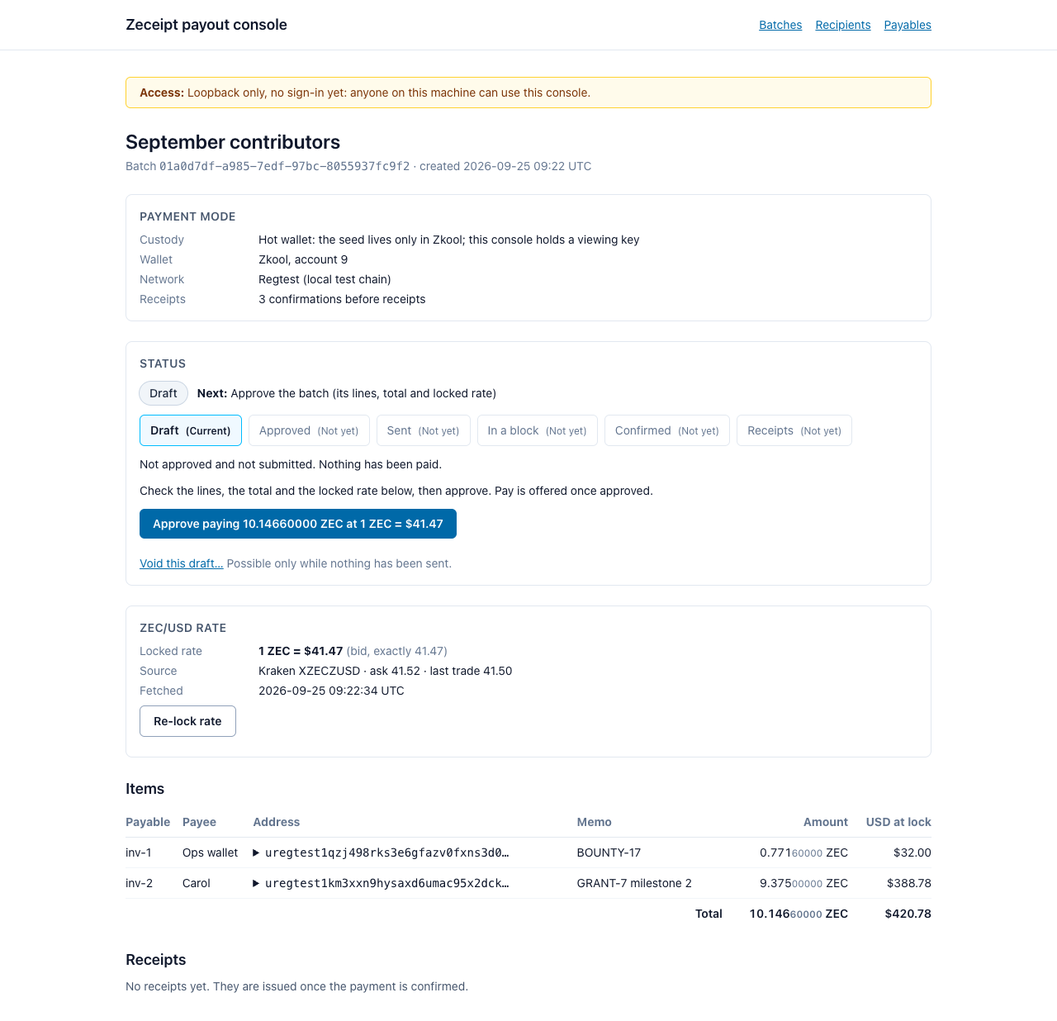
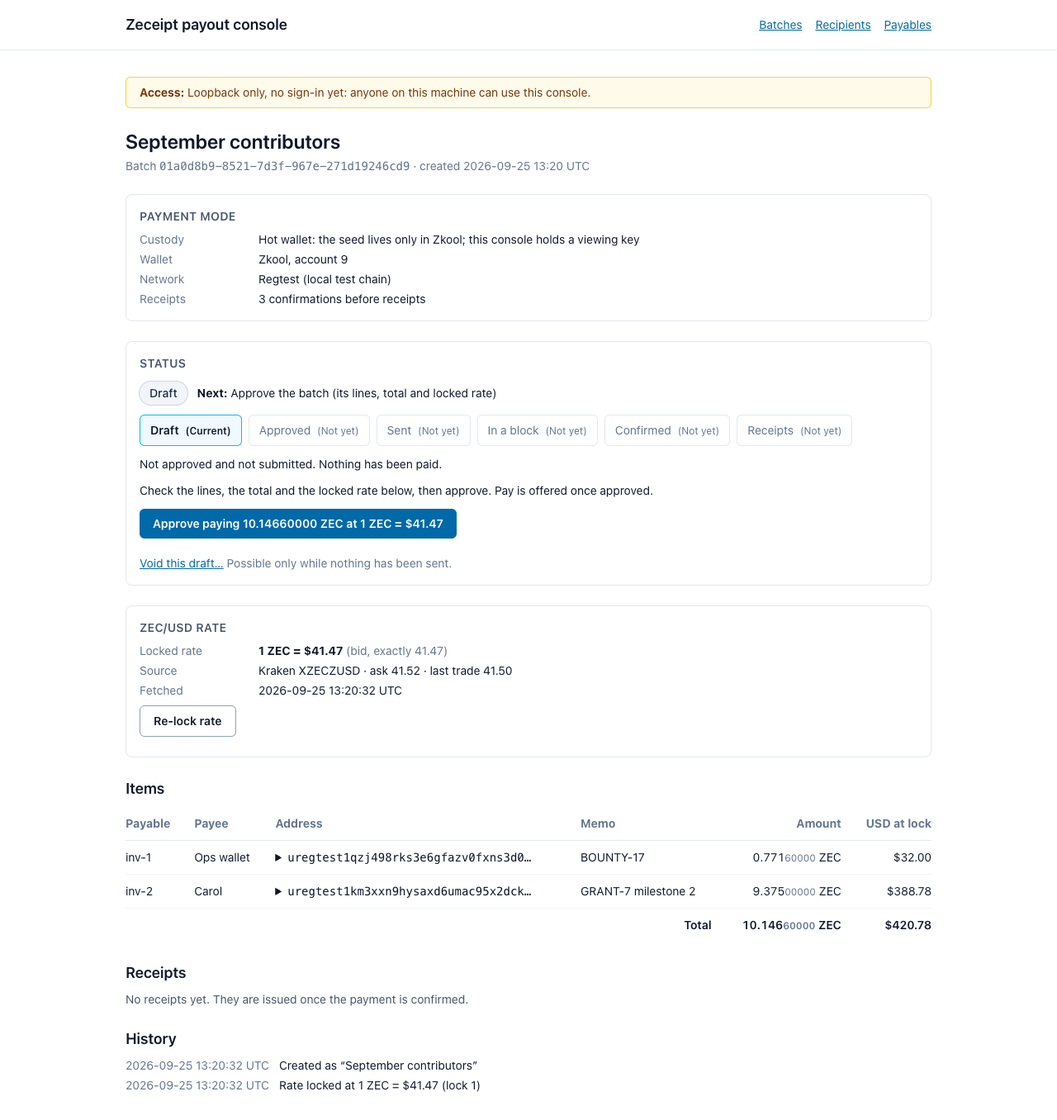
M1: table cells spaced as GOV.UK's table (one TABLE_CLASS for the four data tables, guarded; the form grid marked); found by the first demo footage (R93)

diff --git a/apps/console/app/payables/page.tsx b/apps/console/app/payables/page.tsx
@@ -6,6 +6,7 @@ import { serverContext } from "../../lib/server/context.ts";
 import { centsText, recipientLabel, shortAddress } from "../../lib/view/format.ts";
 import { AccessNotice } from "../components/panels.tsx";
 import { PayableForm } from "./payable-form.tsx";
+import { TABLE_CLASS } from "../../lib/view/table.ts";
 
 export const dynamic = "force-dynamic";
 
@@ -66,33 +67,33 @@ export default async function PayablesPage({ searchParams }: { searchParams: Pro
       {list.length === 0 ? (
         <p className="text-sm">{filter ? `No ${KIND[filter].one.toLowerCase()} payables.` : "No payables yet."}</p>
       ) : (
-        <table className="w-full text-left text-sm">
+        <table className={TABLE_CLASS}>
           <caption className="sr-only">Payables{filter ? `: ${KIND[filter].many}` : ""}</caption>
           <thead className="border-b border-slate-200 text-slate-500">
             <tr>
-              <th className="py-2">Reference</th>
-              <th className="py-2">Recipient</th>
-              <th className="py-2">Kind</th>
-              <th className="py-2 pr-6 text-right">Amount</th>
-              <th className="py-2">Source</th>
-              <th className="py-2">Created (UTC)</th>
-              <th className="py-2">Status</th>
+              <th>Reference</th>
+              <th>Recipient</th>
+              <th>Kind</th>
+              <th className="text-right">Amount</th>
+              <th>Source</th>
+              <th>Created (UTC)</th>
+              <th>Status</th>
             </tr>
           </thead>
           <tbody>
             {list.map((p) => (
               <tr key={p.id} className="border-b border-slate-100 align-top">
-                <td className="py-2">
+                <td>
                   <code>{p.reference}</code>
                 </td>
-                <td className="py-2">
+                <td>
                   {byId.get(p.recipientId)?.displayName}
                   {/* Names need not be unique: the address prefix tells two "Alice"s apart (review H4). */}
                   <div className="font-mono text-xs text-slate-500">{shortAddress(byId.get(p.recipientId)?.address ?? "")}</div>
                 </td>
-                <td className="py-2">{KIND[p.kind].one}</td>
-                <td className="py-2 pr-6 text-right tabular-nums">{centsText(p.usdCents)}</td>
-                <td className="py-2">
+                <td>{KIND[p.kind].one}</td>
+                <td className="text-right tabular-nums">{centsText(p.usdCents)}</td>
+                <td>
                   {p.sourceUrl ? (
                     <a href={p.sourceUrl} rel="noopener noreferrer" className="text-sky-700 underline">
                       {hostOf(p.sourceUrl)}
@@ -101,8 +102,8 @@ export default async function PayablesPage({ searchParams }: { searchParams: Pro
                     "—"
                   )}
                 </td>
-                <td className="py-2 tabular-nums">{p.createdAt.slice(0, 10)}</td>
-                <td className="py-2">
+                <td className="tabular-nums">{p.createdAt.slice(0, 10)}</td>
+                <td>
                   {/* Derived from the batch lines (H3.1.6, H5b.1.6); whether that batch paid is on its own page. */}
                   {holders.has(p.id) ? (
                     <Link href={`/batches/${holders.get(p.id)!.batchId}`} className="text-sky-700 underline">

diff --git a/apps/console/app/recipients/page.tsx b/apps/console/app/recipients/page.tsx
@@ -7,6 +7,7 @@ import { Address } from "../components/address.tsx";
 import { LinkabilityNote } from "../components/linkability.tsx";
 import { AccessNotice } from "../components/panels.tsx";
 import { RecipientForm } from "./recipient-form.tsx";
+import { TABLE_CLASS } from "../../lib/view/table.ts";
 
 export const dynamic = "force-dynamic";
 
@@ -33,11 +34,11 @@ export default async function RecipientsPage() {
       {list.length === 0 ? (
         <p className="text-sm">No recipients yet.</p>
       ) : (
-        <table className="w-full text-left text-sm">
+        <table className={TABLE_CLASS}>
           <caption className="sr-only">Recipients</caption>
           <thead className="border-b border-slate-200 text-slate-500">
             <tr>
-              <th className="py-2">Name</th>
+              <th>Name</th>
               <th>Address</th>
               <th>KYC</th>
               <th>Tax</th>
@@ -47,7 +48,7 @@ export default async function RecipientsPage() {
           <tbody>
             {list.map((r) => (
               <tr key={r.id} className="border-b border-slate-100 align-top">
-                <td className="py-2">
+                <td>
                   {r.displayName}
                   {r.duplicateOf.length > 0 && (
                     <p className="text-xs text-amber-800">Pays the same Orchard receiver as {r.duplicateOf.map((id) => names.get(id)).join(", ")}</p>
@@ -61,12 +62,12 @@ export default async function RecipientsPage() {
                     </p>
                   )}
                 </td>
-                <td className="py-2">
+                <td>
                   <Address value={r.address} />
                 </td>
-                <td className="py-2">{KYC[r.kycStatus]}</td>
-                <td className="py-2">{TAX[r.taxFlag]}</td>
-                <td className="py-2">{SETTLE[r.settlementPref]}</td>
+                <td>{KYC[r.kycStatus]}</td>
+                <td>{TAX[r.taxFlag]}</td>
+                <td>{SETTLE[r.settlementPref]}</td>
               </tr>
             ))}
           </tbody>

diff --git a/apps/console/app/batches/[id]/page.tsx b/apps/console/app/batches/[id]/page.tsx
@@ -20,6 +20,7 @@ import { ZecAmount } from "../../components/amount.tsx";
 import { AccessNotice, ModePanel } from "../../components/panels.tsx";
 import { Lifecycle, StatusBadge } from "../../components/status.tsx";
 import { ApproveForm, IssueForm, LockRateForm, PayForm } from "./action-forms.tsx";
+import { TABLE_CLASS } from "../../../lib/view/table.ts";
 
 export const dynamic = "force-dynamic";
 
@@ -226,11 +227,11 @@ export default async function BatchPage({ params }: { params: Promise<{ id: stri
         <h2 id="items-heading" className="text-lg font-semibold">
           Items
         </h2>
-        <table className="w-full text-left text-sm">
+        <table className={TABLE_CLASS}>
           <caption className="sr-only">Items of this batch</caption>
           <thead className="border-b border-slate-200 text-slate-500">
             <tr>
-              <th className="py-2">Payable</th>
+              <th>Payable</th>
               <th>Payee</th>
               <th>Address</th>
               <th>Memo</th>
@@ -241,7 +242,7 @@ export default async function BatchPage({ params }: { params: Promise<{ id: stri
           <tbody>
             {rec.items.map((i) => (
               <tr key={i.idx} className="border-b border-slate-100">
-                <td className="py-2">{i.payableId}</td>
+                <td>{i.payableId}</td>
                 <td>{i.label || "—"}</td>
                 <td>
                   <Address value={i.address} />
@@ -256,7 +257,7 @@ export default async function BatchPage({ params }: { params: Promise<{ id: stri
           </tbody>
           <tfoot>
             <tr>
-              <td colSpan={4} className="py-2 text-right font-semibold">
+              <td colSpan={4} className="text-right font-semibold">
                 Total
               </td>
               <td className="text-right font-semibold">

diff --git a/apps/console/test/table.test.ts b/apps/console/test/table.test.ts
@@ -1,0 +1,39 @@
+// Table spacing (slice M1): GOV.UK Frontend's table rule (R93), in one class that every table in the app uses.
+
+import { test } from "node:test";
+import assert from "node:assert/strict";
+import { readdirSync, readFileSync, statSync } from "node:fs";
+import { join } from "node:path";
+import { TABLE_CLASS } from "../lib/view/table.ts";
+
+test("TABLE_CLASS carries GOV.UK's cell padding: 10 px vertical, 20 px right, none after the last column", () => {
+  const classes = TABLE_CLASS.split(" ");
+  for (const c of ["w-full", "text-left", "[&_th]:py-2.5", "[&_td]:py-2.5", "[&_th]:pr-5", "[&_td]:pr-5", "[&_th:last-child]:pr-0", "[&_td:last-child]:pr-0"]) {
+    assert.ok(classes.includes(c), c);
+  }
+});
+
+test("every data table in the app uses TABLE_CLASS; a form grid (inputs in cells, own padding) is marked data-form-grid", () => {
+  const files: string[] = [];
+  const walk = (dir: string) => {
+    for (const f of readdirSync(dir)) {
+      const p = join(dir, f);
+      if (statSync(p).isDirectory()) walk(p);
+      else if (p.endsWith(".tsx")) files.push(p);
+    }
+  };
+  walk(join(import.meta.dirname, "../app"));
+  let data = 0;
+  let grids = 0;
+  for (const f of files) {
+    for (const m of readFileSync(f, "utf8").matchAll(/<table\b[^>]*>/g)) {
+      if (m[0].includes("data-form-grid")) grids++;
+      else {
+        data++;
+        assert.ok(m[0].includes("className={TABLE_CLASS}"), `${f}: ${m[0]}`);
+      }
+    }
+  }
+  assert.equal(data, 4, "the batch list, the batch items, recipients, payables");
+  assert.equal(grids, 1, "the new-batch form's line grid");
+});

diff --git a/apps/console/app/page.tsx b/apps/console/app/page.tsx
@@ -4,6 +4,7 @@ import { serverContext } from "../lib/server/context.ts";
 import { paymentMode } from "../lib/view/mode.ts";
 import { ZecAmount } from "./components/amount.tsx";
 import { AccessNotice, ModePanel } from "./components/panels.tsx";
+import { TABLE_CLASS } from "../lib/view/table.ts";
 
 // Read per request through the library (Next's data-access-layer guidance; never fetch our own API).
 export const dynamic = "force-dynamic";
@@ -29,11 +30,11 @@ export default async function Home() {
       {batches.length === 0 ? (
         <p className="text-slate-600">No batches yet. Create one with New batch.</p>
       ) : (
-        <table className="w-full text-left text-sm">
+        <table className={TABLE_CLASS}>
           <caption className="sr-only">Batches, newest first</caption>
           <thead className="border-b border-slate-200 text-slate-500">
             <tr>
-              <th className="py-2">Title</th>
+              <th>Title</th>
               <th>Created</th>
               <th className="text-right">Items</th>
               <th className="text-right">Total</th>
@@ -42,7 +43,7 @@ export default async function Home() {
           <tbody>
             {batches.map((b) => (
               <tr key={b.id} className="border-b border-slate-100">
-                <td className="py-2">
+                <td>
                   <Link href={`/batches/${b.id}`} className="text-sky-700 underline">
                     {b.title}
                   </Link>

diff --git a/apps/console/lib/view/table.ts b/apps/console/lib/view/table.ts
@@ -1,0 +1,5 @@
+// The console's tables (slice M1): GOV.UK Frontend's table spacing (components/table/_mixin.scss; R93). Every header
+// and cell has 10 px vertical and 20 px right padding, and the last column none on the right, so columns never run
+// together and right-aligned amounts meet the table's edge. One class for every table, so the rule cannot drift.
+export const TABLE_CLASS =
+  "w-full text-left text-sm [&_th]:py-2.5 [&_td]:py-2.5 [&_th]:pr-5 [&_td]:pr-5 [&_th:last-child]:pr-0 [&_td:last-child]:pr-0";

diff --git a/apps/console/app/batches/new/draft-form.tsx b/apps/console/app/batches/new/draft-form.tsx
@@ -18,7 +18,7 @@ function Lines({ initial, errors, addressHint }: { initial: DraftLine[]; errors:
   const [lines, setLines] = useState<EditableLine[]>(() => editableLines(initial, errors));
   return (
     <>
-      <table className="w-full text-left text-sm">
+      <table className="w-full text-left text-sm" data-form-grid>
         <caption className="sr-only">Payment lines</caption>
         <thead className="text-slate-500">
           <tr>

diff --git a/docs/product/00_wbs.md b/docs/product/00_wbs.md
@@ -201,7 +201,7 @@ Numbering is `phase.workstream.task.subtask`. Every leaf is a level-4 item.
 #### 3.3.5 Payout console — payables, batches, execution
 - 3.3.5.1 ✅ R — Payables model + manual entry with validation report and linkability warning (REQ-CON-3, REQ-CON-6). 0.25 pd, 2026-09-23 → 09-24. Done so far (slice E2b, Trellis `09-23-console-draft-form`): manual entry of a batch's lines at `/batches/new` (a line table that works without JavaScript; amounts in ZEC converted exactly; every validation problem next to its line; values kept after an error) through the same handler as `POST /api/batches` `[R64]`; lines keyed by stable ids with controlled inputs, covered by a browser e2e in Chrome `[R65]`. Payables (slice H3, Trellis `09-23-payables-store`): the `payables` table (migration 0016) and `POST/GET /api/payables`, `GET /api/payables/{id}`: whole US cents, a reference unique per org (the memo), an http(s) source link, the recipient the org's `[R78]`. The page `/payables` (slice H4, Trellis `09-23-payables-page`): the list with a kind filter and the add form, amounts in US dollars converted to cents exactly, errors under their fields `[R79]`. The linkability warning (slice H6, Trellis `09-25-linkability-warning`): on the recipients page, the chooser and the batch page before paying, and `linkability`/`disclosedBy` in the API; spec §9's wording, tested against the spec `[R84]`.
 - 3.3.5.7 ⬜ R — CSV import (Konclave `label,address,value[,memo]`, zecpay columns) into payables (REQ-CON-19). 0.25 pd, 2026-09-23 → 09-24.
-- 3.3.5.2 ✅ T — Batches with single-source rate lock and state machine (REQ-CON-4, REQ-CON-10, NFR-8: stores the FMV source/rate/timestamp). Includes the console's Tailwind setup with this first styled page (slice E; moved from 3.3.1.1). Done so far (slice E1, Trellis `09-23-console-batch-pages`): Tailwind v4 and ESLint (CI), and the read-only pages `/` and `/batches/{id}`, whose wording follows the derived status and never says confirmed without a confirmed payment (Konclave `settlement.ts`), with the payment mode shown apart from the lifecycle `[R62]`; slice E2 (Trellis `09-23-console-batch-actions`): the page actions, Pay (the button names the total, which is posted as the confirmation) and Issue receipts, as Server Actions that call the same handlers as the API and show the API's answer in plain words `[R63]`. Slice E3 (Trellis `09-23-console-regtest-http`): the whole path through the built app on the live regtest chain, from form to verified receipts (PROOF §5d). The rate lock and grouping payables are below. Voiding a draft (slices H5c, H5d) is below. 0.5 pd, 2026-09-25 → 09-26. Done 2026-09-25: REQ-CON-4, REQ-CON-10 and NFR-8 are met (status audit, slice K1).
+- 3.3.5.2 ✅ T — Batches with single-source rate lock and state machine (REQ-CON-4, REQ-CON-10, NFR-8: stores the FMV source/rate/timestamp). Includes the console's Tailwind setup with this first styled page (slice E; moved from 3.3.1.1). Done so far (slice E1, Trellis `09-23-console-batch-pages`): Tailwind v4 and ESLint (CI), and the read-only pages `/` and `/batches/{id}`, whose wording follows the derived status and never says confirmed without a confirmed payment (Konclave `settlement.ts`), with the payment mode shown apart from the lifecycle `[R62]`; slice E2 (Trellis `09-23-console-batch-actions`): the page actions, Pay (the button names the total, which is posted as the confirmation) and Issue receipts, as Server Actions that call the same handlers as the API and show the API's answer in plain words `[R63]`. Slice E3 (Trellis `09-23-console-regtest-http`): the whole path through the built app on the live regtest chain, from form to verified receipts (PROOF §5d). The rate lock and grouping payables are below. Voiding a draft (slices H5c, H5d) is below. 0.5 pd, 2026-09-25 → 09-26. Done 2026-09-25: REQ-CON-4, REQ-CON-10 and NFR-8 are met (status audit, slice K1). Tables spaced as GOV.UK's table (slice M1, Trellis `09-25-table-spacing`) `[R93]`.
   Rate groundwork (slice G1a, Trellis `09-23-rate-quote-client`): `lib/rates/kraken.ts` fetches Kraken's public ticker for `XZECZUSD`. It keeps bid, ask and last exactly, uses the bid as the rate (BTCPay's choice), and records our clock's time. Any failure throws `RateUnavailableError`: no cache, no default, unlike zecpay's silent 35.0 `[R70]`. Storing quotes (slice G1b, Trellis `09-23-rate-quotes-store`): `rate_quotes`, an append-only history per batch (lock and execution; no lock once frozen; triggers 0012) with `recordQuote`, `currentLock` and `listQuotes` `[R71]`. The lock API (slice G1c1, Trellis `09-23-rate-lock-api`): `POST /api/batches/{id}/rate-lock` (201 with the lock; 409 `batch_frozen`; 502 `rate_unavailable` with a fixed reason, and nothing locked), and `rateLock` on `GET /api/batches/{id}`. The source is `ZECEIPT_RATE_URL` (Kraken by default) `[R72]`. The page (slice G1c2, Trellis `09-23-rate-lock-page`): a Lock/Re-lock rate form (the API's handler, hidden once submitted), the rate with its exact bid, source and time, and a USD-at-lock column. It is exact with bigints, and the total is rounded once (04 principle 4). ZEC amounts show a fixed 8 decimals with the last five lighter, as Zkool does (slice G1d `[R73]`). Grouping payables (slice H5a, Trellis `09-23-batch-from-payables`): `POST /api/batches/from-payables` quotes once and, in one transaction, writes a line per payable (its recipient's name and address, its reference as the memo, its cents, zat = floor(cents × 10^8 / (100 × rate)) exact) and records that quote as the batch's only lock; the rate is then fixed (409 `rate_fixed`; BTCPay fixes an approved payout's rate); a payable is in at most one batch (a partial unique index); triggers tie each line to its payable's facts `[R80]`. The page (slice H5b, Trellis `09-23-payables-batch-page`): `/batches/from-payables` offers the free payables as checkboxes and makes the batch at today's rate; the payables page shows each payable's batch `[R81]`. The state machine (REQ-CON-10; slice I1, Trellis `09-25-state-machine-evidence`): B3's derived states mapped to the requirement in 05, with the configured confirmations tested over HTTP. Voiding (slice H5c, Trellis `09-25-void-draft`): `POST /api/batches/{id}/void` while nothing can have been sent; the void is final and kept, the batch takes nothing more, and its memos and payables are released (memo claims, migration 0019), so a batch whose rate moved is recovered by voiding it and making a new batch from its payables at today's rate `[R82]`. The page (slice H5d, Trellis `09-25-void-page`): a "Void this draft…" link and a confirmation page with a warning-styled button; a voided batch is read-only `[R83]`.
 - 3.3.5.8 ⬜ T — Second rate source and deviation guard (> 3% blocks until re-quote) (REQ-CON-20). 0.5 pd, 2026-09-25 → 09-26.
 - 3.3.5.9 ✅ T — Lock-vs-execution guard: re-quote at execution, store `rate_at_execution`, block `submitting` on a > 3% move; test with a mocked feed (REQ-CON-21). 0.25 pd, 2026-09-25 → 09-26. Done so far (slice G2a, Trellis `09-23-rate-drift-check`): the exact drift check `rateDrift` and `ZECEIPT_RATE_MAX_DRIFT_BPS` (default 300; no age expiry, `[R74]`). Then (slice G2b1, Trellis `09-23-submit-rate-guard`; fixed in review round 1): before every attempt that will pay, a lock is required, the rate is re-quoted and the execution quote stored, and a move beyond the threshold refuses until re-locked. That covers a fresh batch, a retry after a refusal, and a re-send proven unminable. Every refusal sends nothing, a refused batch can be re-locked (migration 0014), and a path that may already have paid is never re-judged. On the page (slice G2b2, Trellis `09-23-pay-needs-lock-page`): Pay is offered only once the batch is locked. A refusal is explained in plain words ("Rate moved: ZEC/USD moved 5.00% since the lock (1600.00 → 1680.00 USD per ZEC); at most 3.00% is allowed. Re-lock the rate, approve the batch again, then pay. This request sent nothing."; "approve the batch again" since slice I3), and the refused batch keeps its Re-lock form.
@@ -230,7 +230,7 @@ Numbering is `phase.workstream.task.subtask`. Every leaf is a level-4 item.
 - 3.4.1.4 👤 ⬜ U — testnet public-chain transaction (faucet claim, PoW/CAPTCHA gate). PROOF §4/§6.
 - 3.4.1.5 👤 ⬜ U — Fund the issuing wallet: testnet faucet + mainnet ZEC for ≥ 15 receipts (≈ 0.02 ZEC incl. fees), by 2026-09-26; without it the headline metric (`11_plan.md` §4) cannot be met.
 #### 3.4.2 Quality gates
-- 3.4.2.1 ✅ R — 34 Rust tests + 371 TypeScript console tests (and 2 opt-in regtest e2e: the library, PROOF §5c, and the app through HTTP, §5d; the 18 build-and-serve tests, one of them in Chrome, run in CI with `ZECEIPT_APP_E2E=1 ZECEIPT_BROWSER_E2E=1`; the public receipt page's 8 Chrome tests, `packages/verify/test/page.e2e.mjs`, also run in CI), clippy `-D warnings`, fmt, grep guards (key-material flags, secrets in logs), demo copy check. `.github/workflows/ci.yml`, `packages/verify/test/verify.mjs`.
+- 3.4.2.1 ✅ R — 34 Rust tests + 373 TypeScript console tests (and 2 opt-in regtest e2e: the library, PROOF §5c, and the app through HTTP, §5d; the 18 build-and-serve tests, one of them in Chrome, run in CI with `ZECEIPT_APP_E2E=1 ZECEIPT_BROWSER_E2E=1`; the public receipt page's 8 Chrome tests, `packages/verify/test/page.e2e.mjs`, also run in CI), clippy `-D warnings`, fmt, grep guards (key-material flags, secrets in logs), demo copy check. `.github/workflows/ci.yml`, `packages/verify/test/verify.mjs`.
 - 3.4.2.2 ✅ R — Independent implementation review 100/100 (five rounds). the development journal.
 - 3.4.2.3 🟡 R — Security self-review checklist before submission (deps audit `cargo audit`, secrets scan). 0.25 pd, 2026-10-08 → 10-09. First pass done early (slice J1, Trellis `09-25-security-review`, 2026-09-25): `scripts/security_review.sh` runs `cargo audit`, `npm audit` on both lockfiles, gitleaks on the history and the working tree, and the source guards, and exits 1 on any finding. The one real finding (esbuild 0.18.20 under drizzle-kit, GHSA-67mh-4wv8-2f99) is fixed by an npm override; every accepted finding is recorded with its reason (`docs/SECURITY_REVIEW.md`) `[R90]`. The leaf closes with the pre-submission rerun.
 - 3.4.2.4 ⬜ R — Reproducible wasm build note or CI artifact; if time allows, a synthetic 20 KB v6 fixture to measure NFR-4 at its stated bound. 0.25 pd, 2026-10-08 → 10-09.

diff --git a/docs/product/10_research_log.md b/docs/product/10_research_log.md
@@ -96,6 +96,7 @@ Every external fact used in `docs/product/` cites an `[Rn]` below. Dates are acc
 | R90 | RustSec `cargo audit` 0.22.2 (advisory database of 2026-09-25, 1,269 advisories); `npm audit` (GitHub Advisory Database); gitleaks 8.30.1 (`gitleaks git`, `gitleaks dir`, `.gitleaksignore`, `gitleaks:allow`); GHSA-67mh-4wv8-2f99; drizzle-orm issue #5145 ("`drizzle-kit` has a dependency on a deprecated insecure package (`@esbuild-kit/esm-loader`)", labelled bug/fixed-in-beta); a zenn.dev note upgrading to drizzle-kit 1.0.0-beta.8 (the migrations folder format changes) and hexaxia's write-up on overriding the nested esbuild (via Tavily) | 2026-09-25 | drizzle-kit 0.31.11, the latest 0.x, pulls esbuild 0.18.20 through the deprecated `@esbuild-kit/esm-loader`, in GHSA-67mh-4wv8-2f99's range (≤ 0.24.2, the dev server answering any website); the fix is only in the 1.0 beta, which replaces `meta/_journal.json`, and the community workaround is an npm override on the nested esbuild itself ("target the binary-bearing package, not its wrapper"). RUSTSEC-2023-0089 (atomic-polyfill unmaintained) is informational. Decision (slice J1): override `@esbuild-kit/core-utils`'s esbuild to ^0.25.12 (verified: `npm audit` 0, fresh `npm ci`, `drizzle-kit generate` unchanged); accept RUSTSEC-2023-0089 because the crate is never compiled (`cargo tree --all-features --target all -e all`); record gitleaks false positives by fingerprint and inline allows; one runner, `scripts/security_review.sh`, failing closed. `cargo deny` and SAST are noted, not adopted. |
 | R91 | FBI IC3 PSA240911, "Business Email Compromise: The $55 Billion Scam" (`ic3.gov/PSA/2024/PSA240911`); the BBB's BEC study (the FBI's BEC types); Bill.com "Get audit trail details" (R89) (via Tavily) | 2026-09-25 | IC3 advises: "Use secondary channels and/or two-factor authentication to verify requests for changes in account information"; the FBI's BEC types include "a vendor or supplier requesting a change in invoice payment". Bill.com's per-record trail records each edit as `field: {name, value: {previous, current}}`. Decision (slice I4b): a `record_log` for recipients and payables written by triggers (as I4's `audit_log`): created, changed with `{previous, current}` per changed field, deleted; the address abridged as the pages show it (ZIP 316's prefix rule), so a payee's address change is visible without a second copy of every address; `GET /api/{recipients,payables}/{id}/history`. A second-channel confirmation of address changes (IC3's advice) is the follow-up once an edit path exists. |
 | R92 | Zcash forum: "[RFC] Order out of Chaos: A Neutral Verification Layer for Zcash" (topic 54302) and "[Grant Application] Laminar — The Tactical Spike: Batch Payment Infrastructure for the Zcash Shielded Economy" (topic 54742, Darklight Labs) (via Tavily); `knowledge/tracks/zcash.md` (sponsor expectations) and `knowledge/20_product_definition.md` | 2026-09-25 | Laminar proposes a local-first treasury console (no keys, no custody) whose "Receipt Bundles" are "a hash-linked intent manifest and a deterministic JSON schema"; `laminar verify` "checks bundle integrity and linkage; it does not reveal shielded recipients or amounts without explicit disclosure". The grant application asks $50,000 over 12 weeks, milestone 1 an open-source `laminar-core` crate. Delivery status not verified (the KB lists it among funded-but-undelivered proposals, also unverified). The KB's track notes: the sponsors want "a few really high quality founders"; a critic feared relabelled projects. Decision (slice L1): add Laminar to 03's matrix as complementary (intent integrity, not per-output chain verification), correct Zeceipt's own row (the console's batches, USD payables and approval are built; exports dropped), and draft the pilot post leading with what only a shielded per-output receipt proves, every claim tied to PROOF, no public-chain receipt claimed. |
+| R93 | GOV.UK Frontend `packages/govuk-frontend/src/govuk/components/table/_mixin.scss` (main, fetched 2026-09-25) | 2026-09-25 | `.govuk-table__cell { padding: govuk-spacing(2) govuk-spacing(4) govuk-spacing(2) 0 }` (10 px, 20 px right, 10 px, 0 left), the same for headers, and `.govuk-table__header:last-child, .govuk-table__cell:last-child { padding-right: 0 }`. Decision (slice M1, after the first demo footage showed the batch table's columns running together at 1280 px): one `TABLE_CLASS` with that spacing for every data table, guarded by a test over `app/`; a form grid of inputs is marked `data-form-grid` and keeps its own compact padding. |
 
 **Address validation (added in review H1 round 1).**
 - ZIP 316 (`zcash/zips`) requires a decoder to check the F4Jumble input length (48 to 4,194,368 bytes in Revision 0), invert F4Jumble, check and strip the 16-byte HRP padding, and parse the items. It adds: "A Revision 0 Unified Address MUST contain at least one shielded Item … Consumers MUST reject addresses that violate this restriction."

diff --git a/docs/product/01_requirements.md b/docs/product/01_requirements.md
@@ -100,7 +100,7 @@ Priorities are stated for the two-person baseline plan. Under the solo branch (`
 
 | ID | Requirement | Acceptance criterion | Status | Solo branch (`11_plan.md` §1.1) |
 |---|---|---|---|---|
-| NFR-1 Security | No spending keys, seeds or mnemonics accepted by the shipped crates, CLI or verifier; `#![forbid(unsafe_code)]` in every crate; no `unwrap` outside tests. Carve-out: `scripts/zkool_regtest_tracer.py` is a regtest-only harness that reads a throwaway regtest mnemonic from a file outside the repository to drive a local wallet backend (marker `# key-material-allowed` in its first lines). | CI step `source guards` (`scripts/check_source_guards.py`) scans all five crates' non-test code, the console library `apps/console/lib/**/*.ts` and `apps/console/db/**/*.ts` and the console app (`app/**/*.ts(x)`, `instrumentation.ts`, `proxy.ts`, `next.config.ts`) (no carve-out possible) and every `scripts/**/*.py` and `*.sh` for the whole words seed/mnemonic/spending and fails on a hit unless the file carries the header marker and the line is tagged; clippy `-D warnings`; attribute present in all five crates. | ✅ guard output, verified by `check_product_docs.py` against a live run: `source guards: 6 crate files + 113 console lib/db/app files + 3 browser verifier files + 7 scripts scanned (carve-out files: 1)` (1 carve-out file with 2 tagged lines) | kept |
+| NFR-1 Security | No spending keys, seeds or mnemonics accepted by the shipped crates, CLI or verifier; `#![forbid(unsafe_code)]` in every crate; no `unwrap` outside tests. Carve-out: `scripts/zkool_regtest_tracer.py` is a regtest-only harness that reads a throwaway regtest mnemonic from a file outside the repository to drive a local wallet backend (marker `# key-material-allowed` in its first lines). | CI step `source guards` (`scripts/check_source_guards.py`) scans all five crates' non-test code, the console library `apps/console/lib/**/*.ts` and `apps/console/db/**/*.ts` and the console app (`app/**/*.ts(x)`, `instrumentation.ts`, `proxy.ts`, `next.config.ts`) (no carve-out possible) and every `scripts/**/*.py` and `*.sh` for the whole words seed/mnemonic/spending and fails on a hit unless the file carries the header marker and the line is tagged; clippy `-D warnings`; attribute present in all five crates. | ✅ guard output, verified by `check_product_docs.py` against a live run: `source guards: 6 crate files + 114 console lib/db/app files + 3 browser verifier files + 7 scripts scanned (carve-out files: 1)` (1 carve-out file with 2 tagged lines) | kept |
 | NFR-2 Privacy | Only per-output OCKs are disclosed; UFVK/OVK never leave the issuer; hosted verifier discloses which txid it fetches. | Spec §9; demo copy. | ✅ | kept |
 | NFR-3 Reliability | Endpoint failover; `pending` distinct from `invalid`; idempotent issuance. | lwd tests; CLI exit 2 path. | ✅ (console idempotency ⬜) | kept |
 | NFR-4 Performance | Browser verify < 1 s after wasm load for a transaction up to 20 KB; CLI issue < 5 s per tx on public nodes. Measured in Chrome 153 on `demo/index.html`: 7.28 ms per verify at 9,166 bytes and 6.05 ms at 15,478 bytes (the Zkool batch fixture, now the largest committed, 77 % of 20 KB) — flat in transaction size because exactly one output is trial-decrypted; more than 130× inside the 1 s budget; the last 23 % to 20 KB is not measured. Node: init 13.9 ms. CLI issue = fetch (1.15 s measured, `inspect` over gRPC) + trial-decrypt/sign (offline `issue --regtest` 0.00 s wall) < 5 s. PROOF §2b. | ✅ measured at 9 KB and 15 KB in Chrome; the last 23 % to 20 KB bounded, not measured (WBS 3.4.2.4 note) | kept |

diff --git a/docs/product/09_submission_checklist.md b/docs/product/09_submission_checklist.md
@@ -29,7 +29,7 @@ Source for fields and rules: `[R1]` (form fields captured 2026-09-17 from the FA
 
 **What Zeceipt does.** Every output an organisation pays becomes a receipt: a small signed envelope holding that output's Outgoing Cipher Key. Anyone with the receipt, the recipient, an auditor or a public ledger, recovers exactly that payment (recipient, amount, memo) from the chain in their browser, without receiving a viewing key and without learning anything else about the payer. It is the outputs half of ZIP 311, implemented for the live Ironwood pool (activated July 2026, where no receipt tool existed), with a published format, deterministic test vectors, a Rust crate, a CLI, an npm verifier and a browser page. Receipts compose into audit packs whose totals are explicitly lower bounds. A thin payout console turns USD-denominated payables into two-person-approved shielded batches (via Zkool), issues receipts automatically after confirmation, and exports OpenZcash-, QuickBooks- and Xero-compatible CSVs plus per-recipient annual USD totals for 1099-NEC preparation. Verified receipts can be attested on Solana through a small program that checks the issuer's signature on-chain.
 
-**Proof.** Mainnet v6 transactions parsed and fetched over gRPC; a consensus-valid transaction on a Zebra regtest chain issued from the sender's viewing key and verified online and offline; tamper cases fail closed at a named stage; 405 automated tests (34 Rust, 371 TypeScript) including the official Orchard note-encryption vectors. [Add: testnet/mainnet receipts and the pilot organisation once funded.]
+**Proof.** Mainnet v6 transactions parsed and fetched over gRPC; a consensus-valid transaction on a Zebra regtest chain issued from the sender's viewing key and verified online and offline; tamper cases fail closed at a named stage; 407 automated tests (34 Rust, 373 TypeScript) including the official Orchard note-encryption vectors. [Add: testnet/mainnet receipts and the pilot organisation once funded.]
 
 **Market and impact.** Immediate users are Zcash grant programs and DAOs (FPF/ZCG pay 60+ milestones and 100+ bounties per quarter by hand) and Zcash-native payroll users such as Zcash Brazil on Konclave. The category is wider: Aleo, Tempo, Canton and Solana confidential balances all ship private payments in 2026 and none offers per-payment proof; under EU AMLR (2027) on-demand provability is the survival property for privacy assets. Top-down seat market ≈ $2.4–7.2M/yr (outer bound $4.7–14.0M); verification API and compliance licensing are the multiplier.
 
@@ -80,7 +80,7 @@ Six criteria (rules §8) `[R1]`:
 
 | Criterion | Where it is answered |
 |---|---|
-| Functionality — how well it works, code quality | 405 tests (34 Rust, 371 TypeScript), clippy `-D warnings`, `docs/PROOF.md` §1–§5, CI workflow, implementation review 100/100 (journal) |
+| Functionality — how well it works, code quality | 407 tests (34 Rust, 373 TypeScript), clippy `-D warnings`, `docs/PROOF.md` §1–§5, CI workflow, implementation review 100/100 (journal) |
 | Potential Impact — TAM, ecosystem effect | `03_market_competition.md` §1; `02_personas_jtbd.md` §0; `07_compliance_tax.md` §3 |
 | Novelty | first per-output receipts on Ironwood; format + vectors; `docs/PRIOR_ART.md` states exactly what is new vs Glasspane/ZIP 311 |
 | UX — using the chain for downstream users | no-login browser verification, three-part outcome, proves/does-not-prove copy (`04_ux_flows.md`, spec §4) |
